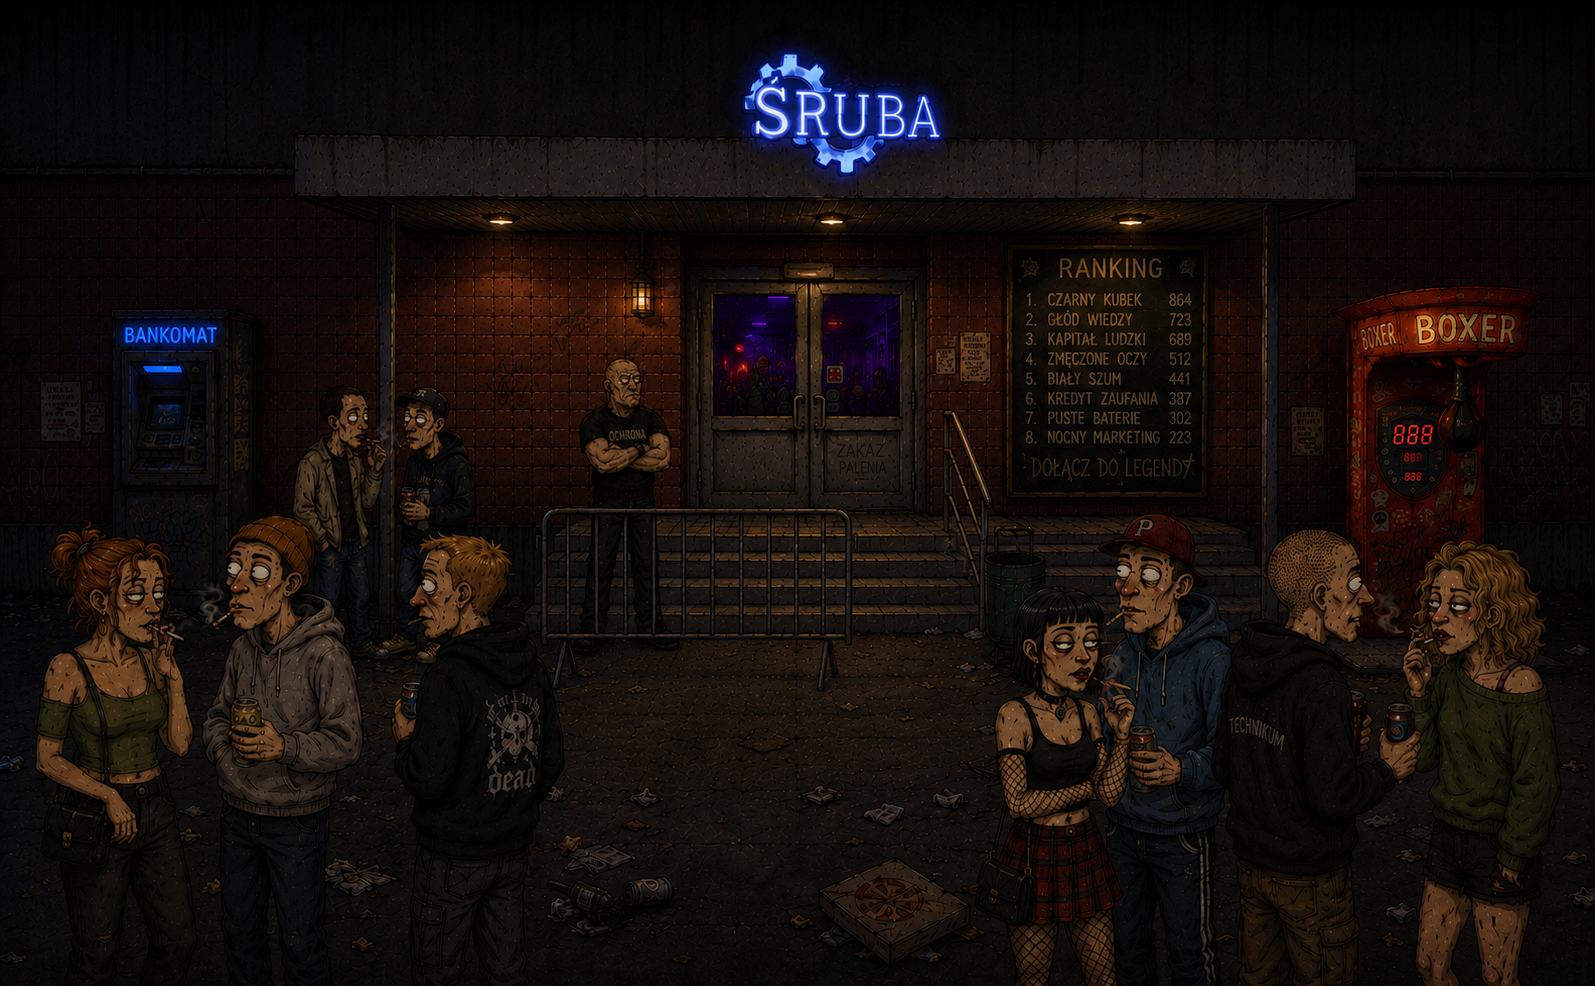
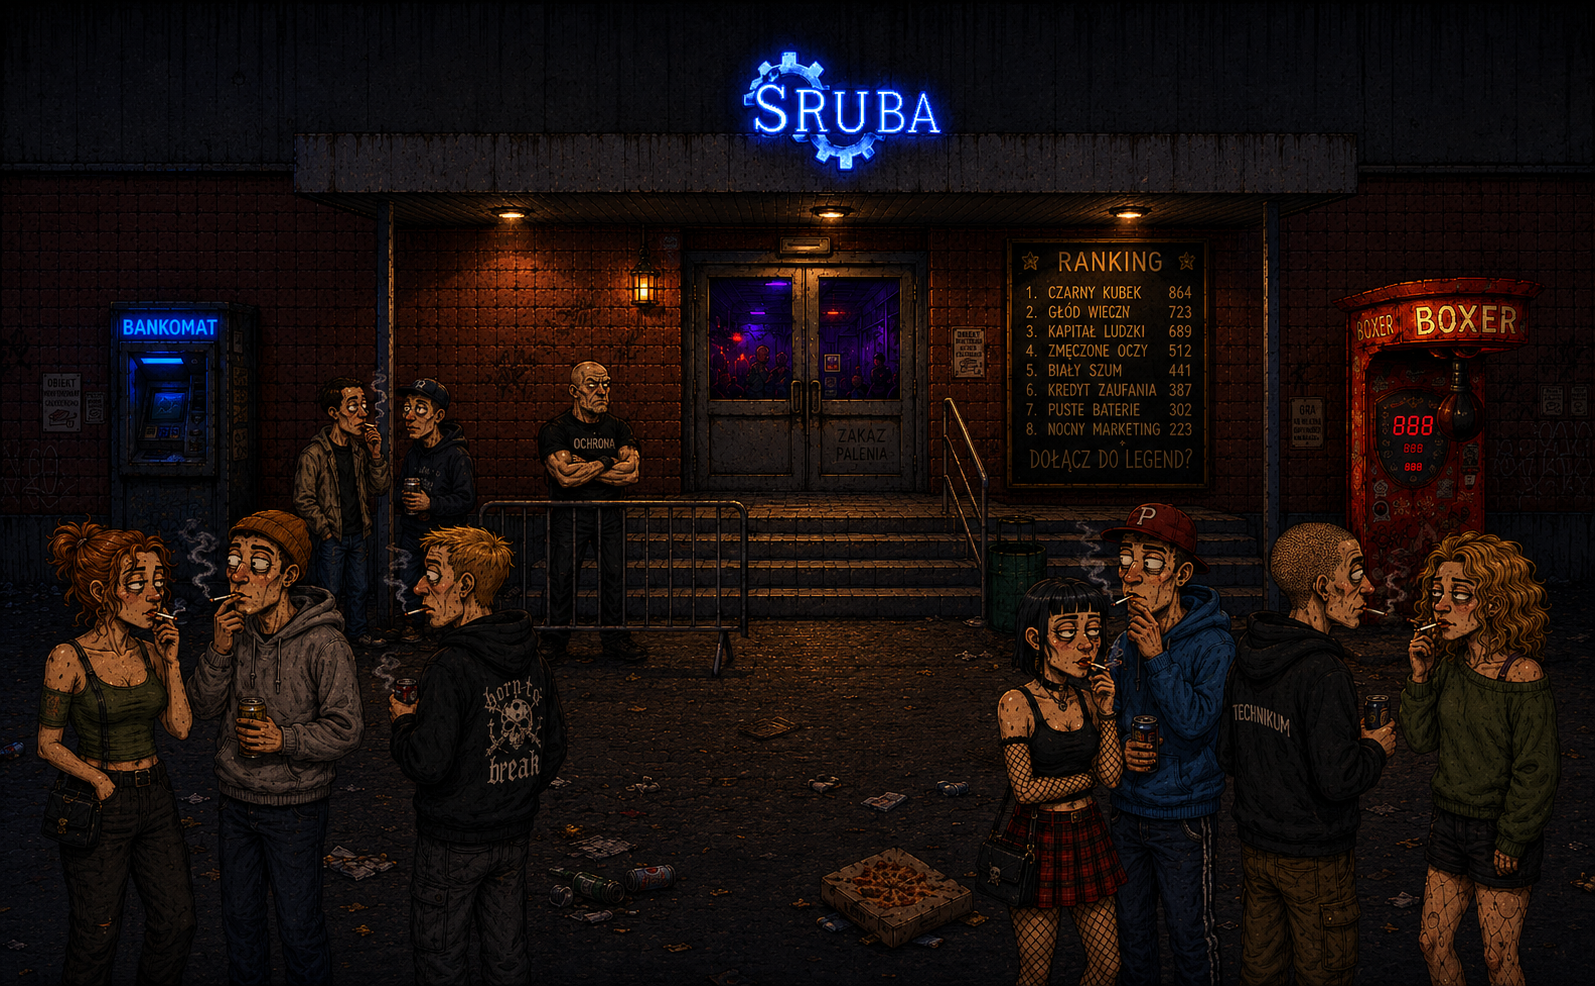
outside we frontendzie, drzwi do klubu

diff --git a/frontend/src/index.css b/frontend/src/index.css
@@ -355,3 +355,64 @@ body::before {
 	display: none;
 	cursor: pointer;
 }
+
+.outsideMain {
+	position: relative;
+	width: 1310px;
+	height: 100%;
+	background: url("assets/scenes/outside_main.png") center / contain no-repeat;
+	background-color: #0b0b0f;
+	border: 2px solid #1f1a24;
+	box-shadow:
+			inset 0 0 40px rgba(0, 0, 0, 0.6),
+			inset 0 0 80px rgba(122, 29, 45, 0.08);
+}
+
+.outsideMain-entranceTextBox {
+	display: none;
+
+	font-size: 16px;
+
+	position: absolute;
+	top: 200px;
+	left: 500px;
+
+	width: 70px;
+
+	padding: 1px 6px;
+
+	border: 1px solid var(--neon-blue);
+	border-radius: 20px;
+
+	background: rgba(10, 12, 18, 0.92);
+
+	color: #d2c1af;
+
+	text-shadow: 0 0 3px rgba(255, 255, 255, 0.15);
+
+	box-shadow: 0 0 12px rgba(77, 163, 255, 0.35);
+
+	backdrop-filter: blur(2px);
+
+	z-index: 2;
+}
+
+.outsideMain-entrance {
+	position: absolute;
+	top: 236px;
+	left: 565px;
+
+	width: 187px;
+	height: 188px;
+
+	z-index: 2;
+}
+
+.outsideMain-entrance:hover .hover-image {
+	display: block;
+}
+
+.outsideMain-entrance:hover + .outsideMain-entranceTextBox {
+	display: block;
+	opacity: 0.95;
+}

diff --git a/frontend/src/views/Outside.tsx b/frontend/src/views/Outside.tsx
@@ -1,8 +1,34 @@
+import { useNavigate } from "react-router-dom";
+import entranceHover from "../assets/scenes/hover/entrance_hover.png";
+
 function Outside() {
+	const navigate = useNavigate();
+
 	return (
-		<div>
-			<img src="/items/item1.png" alt="aa" />
-			<h1>Outside</h1>
+		<div className="outsideMain">
+			<div className="outsideMain-entrance">
+				<img
+					src={entranceHover}
+					alt="entrance_hover"
+					width={187}
+					height={188}
+					className="hover-image"
+					onClick={() => navigate("/")}
+				/>
+			</div>
+			<p className="outsideMain-entranceTextBox">Wejdź do klubu</p>
+
+			{/*<div className="outsideMain-boxer">*/}
+			{/*	<img*/}
+			{/*		src={boxerHover}*/}
+			{/*		alt="boxer_hover"*/}
+			{/*		width={131}*/}
+			{/*		height={144}*/}
+			{/*		className="hover-image"*/}
+			{/*		onClick={() => navigate("/boxer")}*/}
+			{/*	/>*/}
+			{/*</div>*/}
+			<p className="clubMain-boxerTextBox">Boxer</p>
 		</div>
 	);
 }

diff --git a/frontend/src/views/Boxer.tsx b/frontend/src/views/Boxer.tsx
@@ -1,0 +1,13 @@
+// import { useNavigate } from "react-router-dom";
+
+function Boxer() {
+    // const navigate = useNavigate();
+
+    return (
+        <div className="outsideBoxer">
+
+        </div>
+    );
+}
+
+export default Boxer;

diff --git a/frontend/src/App.tsx b/frontend/src/App.tsx
@@ -6,6 +6,7 @@ import Shop from "./views/Shop";
 import Barman from "./views/Barman";
 import Player from "./views/Player";
 import Outside from "./views/Outside";
+import Boxer from "./views/Boxer";
 
 function App() {
 
@@ -38,6 +39,7 @@ function App() {
 						<Route path="/barman" element={<Barman/>}/>
 						<Route path="/player" element={<Player/>}/>
 						<Route path="/outside" element={<Outside/>}/>
+						<Route path="/boxer" element={<Boxer/>}/>
 					</Routes>
 				</div>
 			</div>